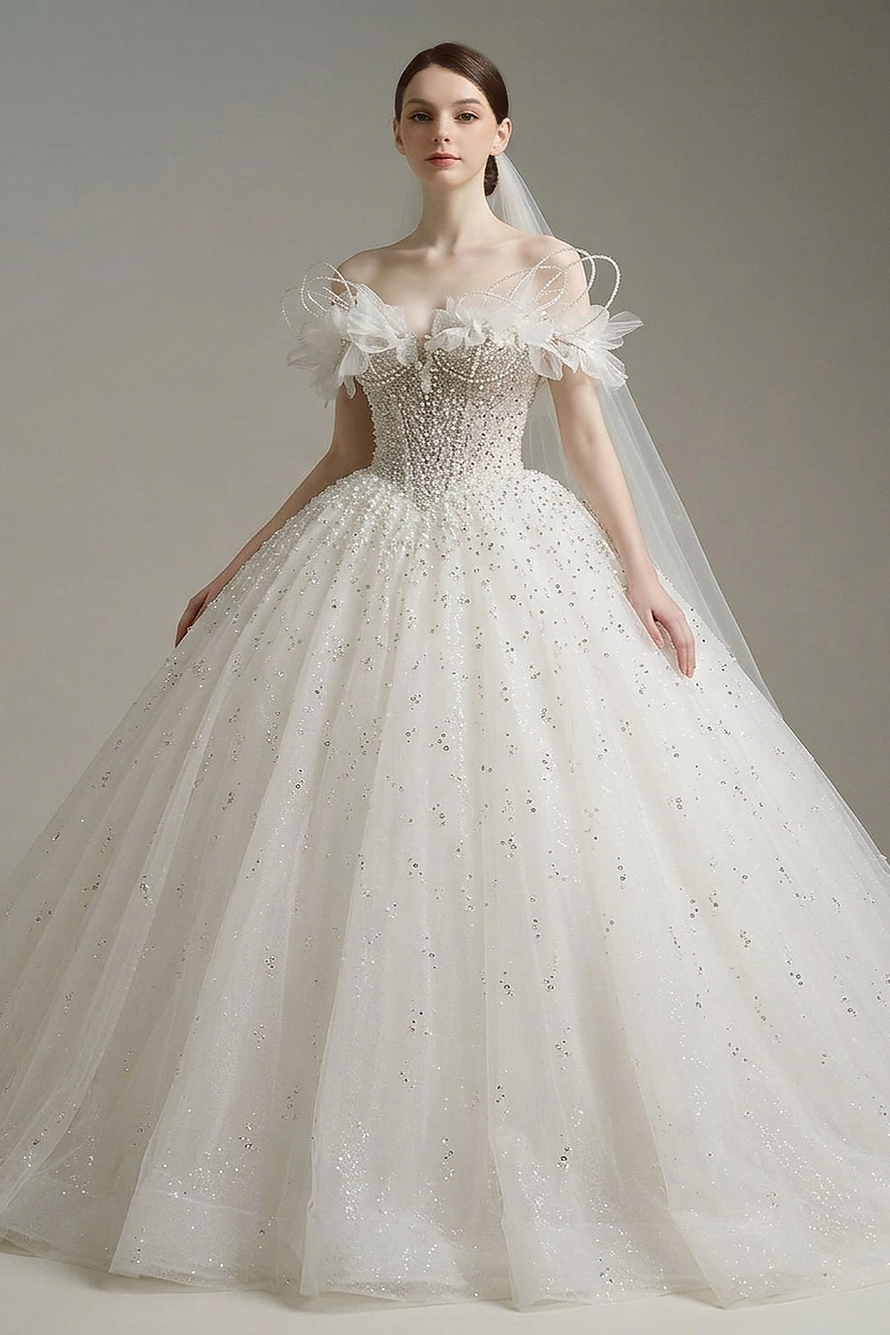
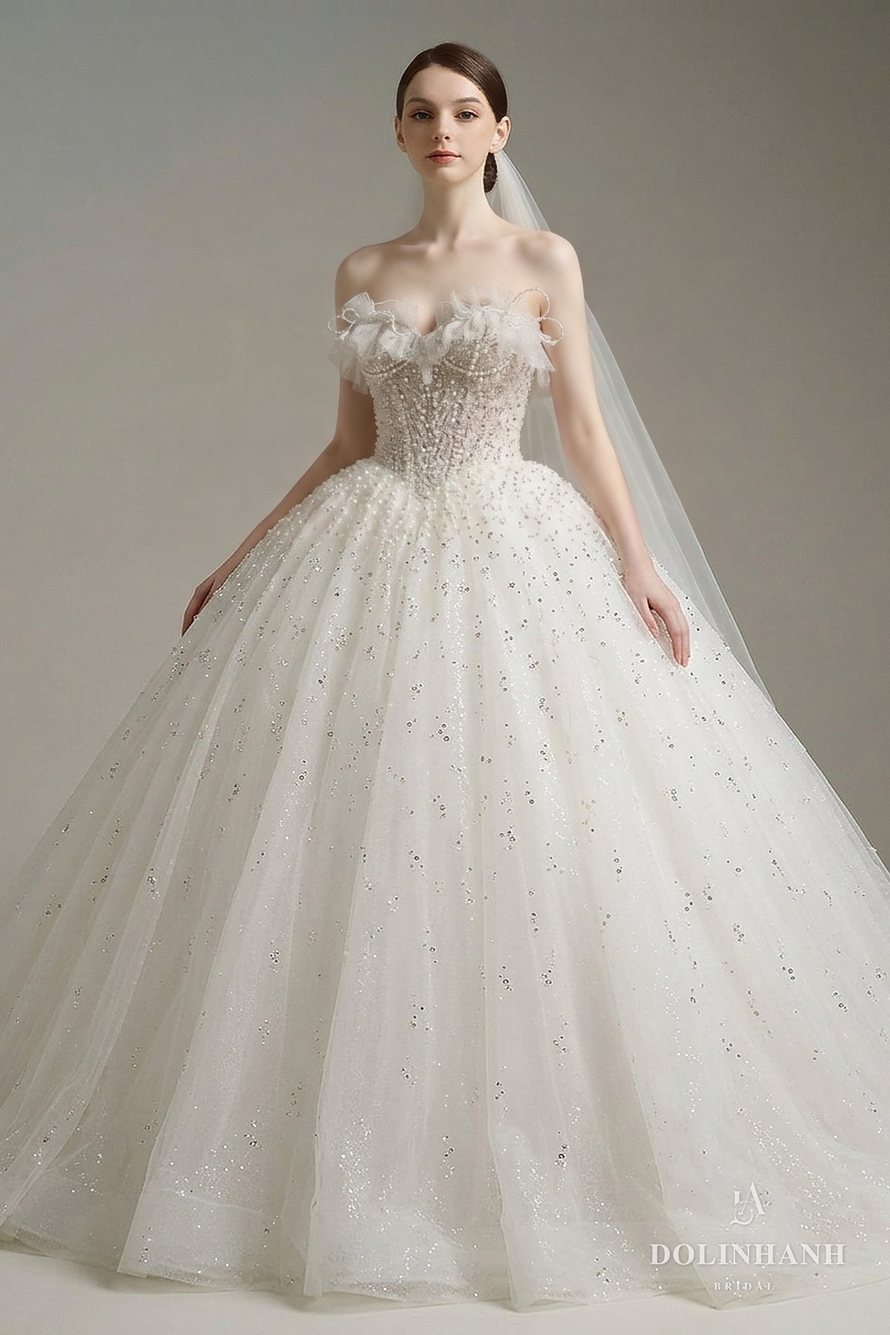
V212: MS 148: strapless corset, ruffle only along neckline (no sleeves)

diff --git a/bo-suu-tap.html b/bo-suu-tap.html
@@ -1621,7 +1621,7 @@ src="https://www.facebook.com/tr?id=1358640082651240&ev=PageView&noscript=1"
         </figure>
         <figure data-dang="ballgown" data-mood="editorial" data-coso="hcm">
           <div class="sl-khung">
-            <div class="sl" data-img="anh/vay/ms148/01.jpg"></div>
+            <div class="sl" data-img="anh/vay/ms148/01.jpg?v=0511"></div>
           </div>
           <figcaption><span class="kind" data-en="Dolinhanh Bridal" data-zh="Dolinhanh Bridal">Dolinhanh Bridal</span><span class="nm">MS 148</span><span class="de" data-en="Sparkle and feathers, full skirt" data-zh="闪钻与羽毛，蓬松裙摆">Lấp lánh lông vũ, tùng xoè</span><span class="gia">US$1,880</span></figcaption>
         </figure>
